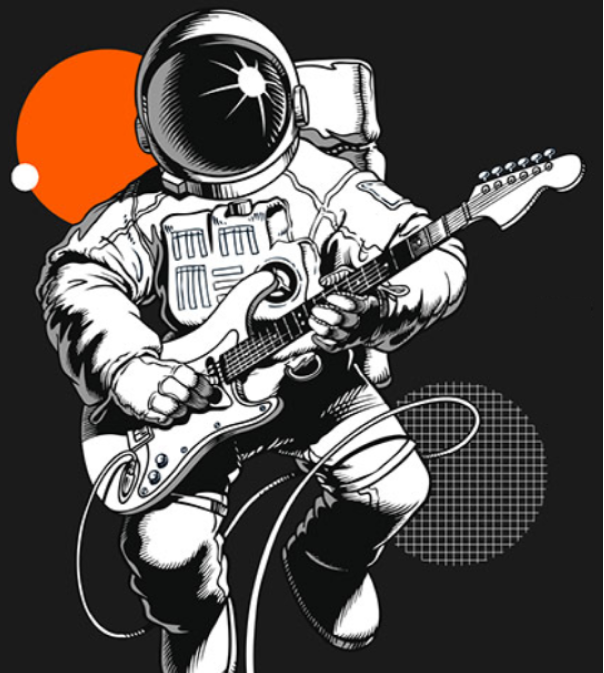
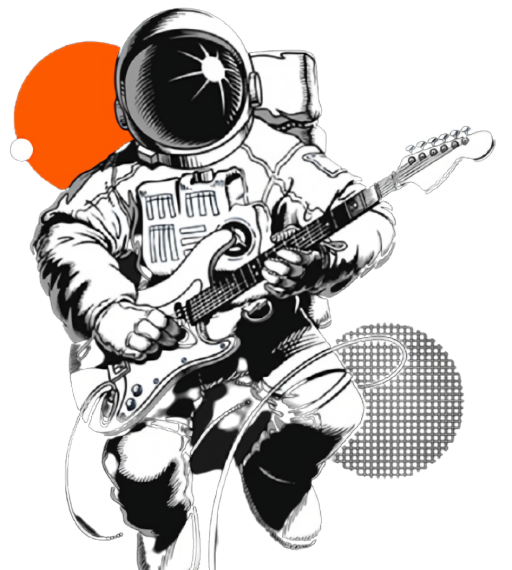
update: changed theme

diff --git a/src/pages/index.js b/src/pages/index.js
@@ -8,17 +8,14 @@ import HeroSection from "../components/HeroSection";
 import Label from "../units/Label";
 import WorkCards from "../components/WorkCards";
 import Contact from "../components/Contact";
-import KBarCommandBar from "../components/KBarCommandBar";
+import KBarCommand from "../components/KBarCommand";
 import { Helmet } from "react-helmet";
-import { KBarProvider } from "kbar";
 import resume from "./../assets/resume.pdf";
-import actions from "../units/KBarAction";
 import About from "../components/About";
 
 const IndexPage = () => {
   return (
-    <KBarProvider actions={actions}>
-      <KBarCommandBar />
+    <KBarCommand>
       <Helmet title="KG | Home" />
       <GlobalStyle />
       <a href={resume} target="_blank" rel="noreferrer" id="resume" />
@@ -32,12 +29,12 @@ const IndexPage = () => {
       </WorkWrapper>
       <AboutWrapper id={"about"}>
         <Label text={"about"} />
-          <About />
+        <About />
       </AboutWrapper>
       <ContactWrapper id={"contact"}>
         <Contact text={"contact"} />
       </ContactWrapper>
-    </KBarProvider>
+    </KBarCommand>
   );
 };
 

diff --git a/src/components/KBarCommand.js b/src/components/KBarCommand.js
@@ -6,12 +6,14 @@ import {
   KBarAnimator,
   KBarSearch,
   useMatches,
-  KBarResults,
+  KBarResults, KBarProvider,
 } from "kbar";
 import { colors } from "../Colors";
+import actions from "../units/KBarAction";
 
-const KBarCommandBar = () => {
+const KBarCommand = (props) => {
   return (
+    <KBarProvider actions={actions}>
     <KBarPortal>
       <KBarPositioner>
         <KBarAnimator style={animatorStyle}>
@@ -20,6 +22,8 @@ const KBarCommandBar = () => {
         </KBarAnimator>
       </KBarPositioner>
     </KBarPortal>
+      {props.children}
+    </KBarProvider>
   );
 };
 
@@ -149,7 +153,7 @@ const groupNameStyle = {
   opacity: 0.6,
 };
 
-export default KBarCommandBar;
+export default KBarCommand;
 
 // KBar Logo SVG
 

diff --git a/src/pages/archive.js b/src/pages/archive.js
@@ -6,10 +6,13 @@ import NavBar from "../components/NavBar";
 import ArchiveTable from "../components/ArchiveTable";
 import OpenSource from "../components/OpenSource";
 import { Helmet } from "react-helmet";
+import KBarCommand from "../components/KBarCommand";
+import resume from "../assets/resume.pdf";
 
 const Archive = () => (
-  <>
+  <KBarCommand>
     <Helmet title="KG | Archive" />
+    <a href={resume} target="_blank" rel="noreferrer" id="resume" />
     <GlobalStyle />
       <NavBar fromArchive={true} />
     <PageWrapper>
@@ -29,7 +32,7 @@ const Archive = () => (
         <OpenSource />
       </div>
     </PageWrapper>
-  </>
+  </KBarCommand>
 );
 
 const PageWrapper = styled.div`

diff --git a/src/pages/404.js b/src/pages/404.js
@@ -2,7 +2,7 @@ import * as React from "react";
 import { Link } from "gatsby";
 import "./../404.scss";
 import actions from "../units/KBarAction";
-import KBarCommandBar from "../components/KBarCommandBar";
+import KBarCommand from "../components/KBarCommand";
 import { KBarProvider } from "kbar";
 
 const NotFoundPage = () => {
@@ -14,7 +14,7 @@ const NotFoundPage = () => {
   }
   return (
     <KBarProvider actions={actions}>
-      <KBarCommandBar />
+      <KBarCommand />
       <main className="container">
         {fours}
         {ones}

diff --git a/src/components/NavBar.js b/src/components/NavBar.js
@@ -35,8 +35,7 @@ const NavWrapper = styled.div`
   display: flex;
   justify-content: space-between;
   align-items: center;
-  background: #1f1f1f;
-  box-shadow: 0 5px 20px rgba(0, 0, 0, 0.4);
+  background: ${colors.black};
 
   @media only screen and (max-width: 768px)  {
     flex-direction: column;

diff --git a/src/Colors.js b/src/Colors.js
@@ -1,7 +1,7 @@
 export const colors = {
   orange: "#FD5900",
-  black: "#1B1B1B",
+  black: "#000000",
   white: "#ECE9E9",
-  lightblack: "#272727",
+  lightblack: "#181818",
   lightgray: "#B4B3B4",
 };
